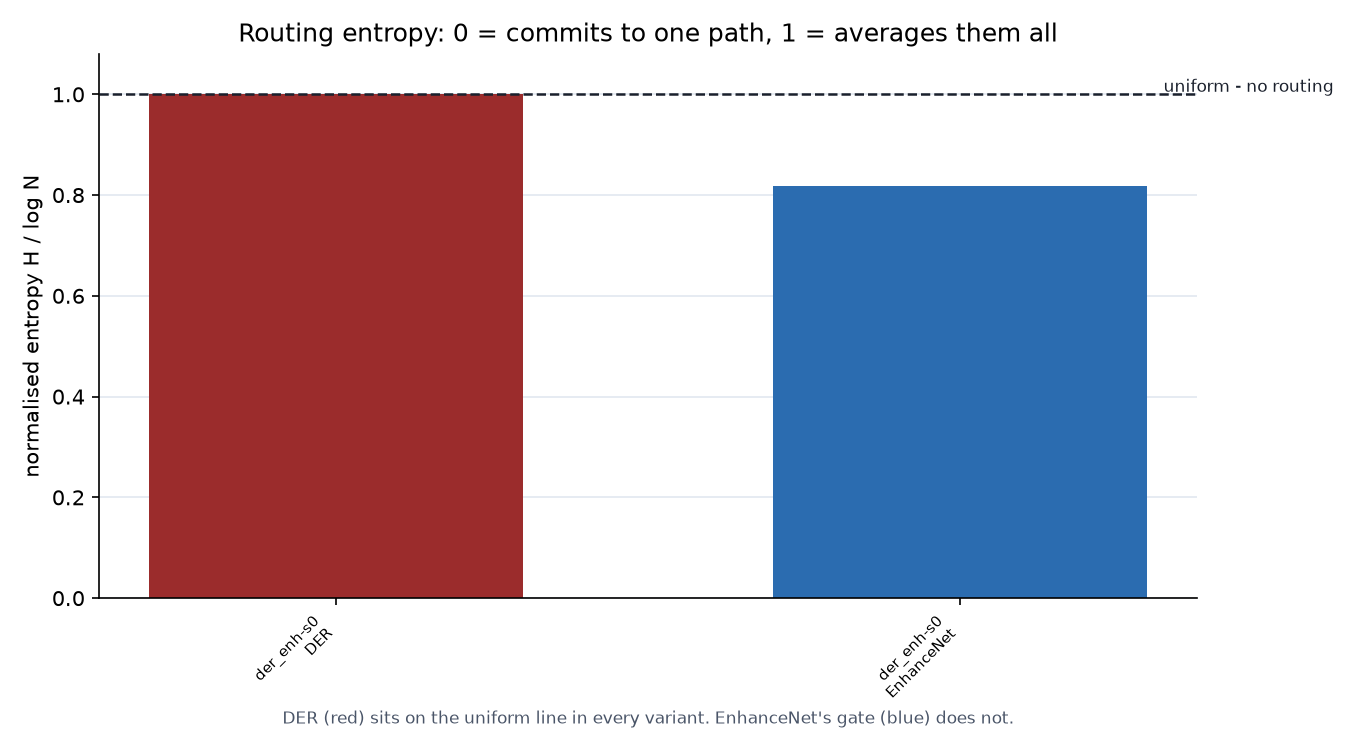
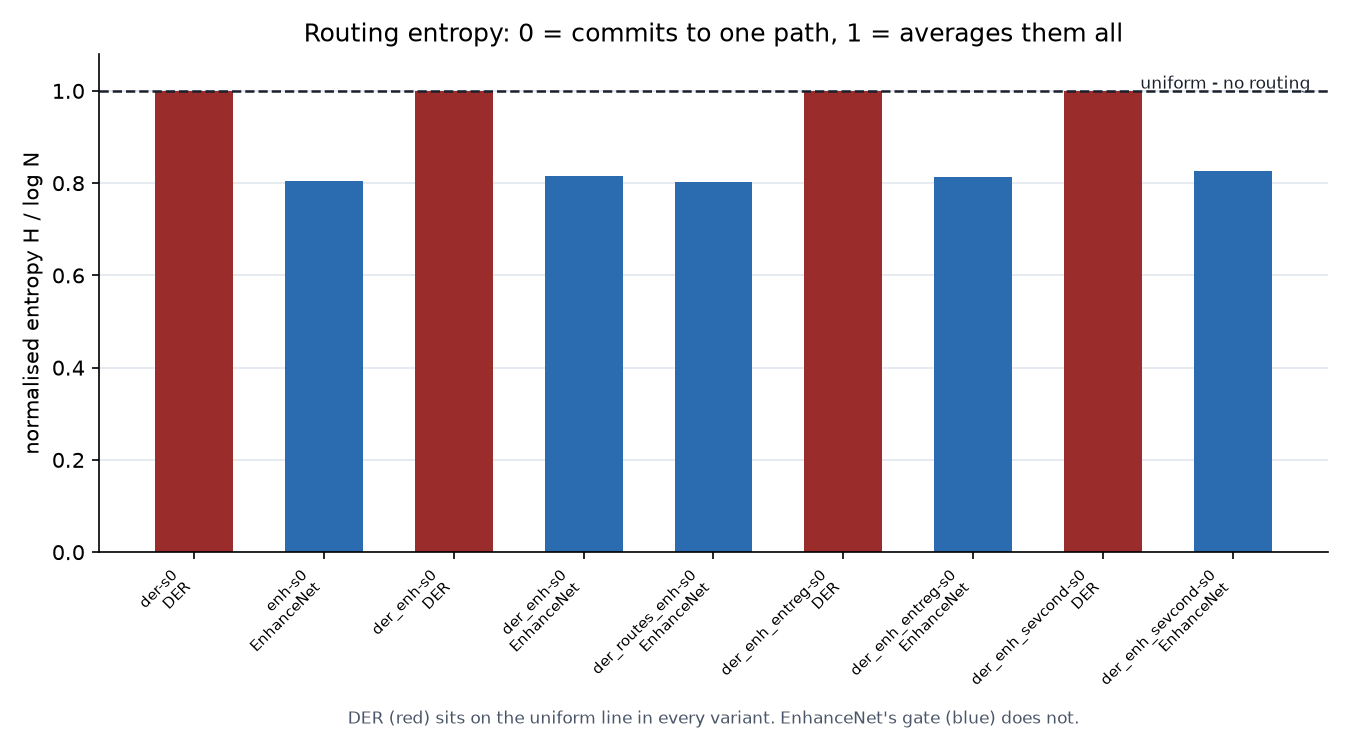
feat(experiments): entropy sweep configs, seeded batches, and a queue that outlives the session
Prepares tonight's spare GPU window. Nothing here has run yet -- the BDD batch
still owns the GPU until ~18:00 PKT -- but it is all committed so a flaky SSH
link cannot lose it.

**configs/der_enh_ent{01,10,50}.yaml** -- the E1 entropy sweep at 0.1, 1.0, 5.0.
This is the one genuinely untested question in the paper. `der_enh_entreg` ran at
0.01 and its loss term logged 0.01498, exactly 0.01 * mean(3*log 4, 3*log 5),
moving 0.00002 across 100 epochs: ~0.3% of a detection loss of order 2-6, so the
router was never actually pushed. "Entropy-aware" has therefore never been tested
by anyone, including the authors. entropy_reg and load_balance are raised
*together*, as losses.py designed them -- entropy pushes each image toward one
path, which alone would send every image down the same path, and load_balance
penalises precisely that collapse. Varying one would confound "sharper routing"
with "collapsed routing".

**infra/run_batch.sh** now accepts `variant:seed`, so a seed sweep is one batch
rather than seven invocations. Seeds are what turn a delta into a result here:
the entire spread across seven ExDark variants was 0.0056 mAP50, the same order
as the deltas being claimed, so single-seed numbers cannot settle anything.

**infra/run_queue.sh** (new) chains the whole night on the Droplet: wait for the
running batch, train the sweep and the seeds, evaluate every run on its own
dataset (BDD's 11 condition bins included), record entropy and gates for the new
[…]

diff --git a/docs/ENGINEERING_LOG.md b/docs/ENGINEERING_LOG.md
@@ -65,6 +65,33 @@ Two candidate explanations are ruled out:
   So enhancement gating discriminates and routing does not. That asymmetry is the
   interesting part: the same architecture pattern works in one module and not the other.
 
+### 2.1b Four implementations, four times the same answer
+
+The uniform-routing result is not one measurement. Every variant was instrumented
+separately, 48 images each:
+
+| run | DER routing H | EnhanceNet gate H | DER feature ΔH |
+|---|---|---|---|
+| der | 0.9997 | — | +0.0305 |
+| der_enh | 0.9999 | 0.8153 | +0.0370 |
+| der_enh_entreg | 0.9998 | 0.8136 | +0.0386 |
+| der_enh_sevcond | 0.9997 | 0.8254 | +0.0170 |
+| der_routes_enh | — | 0.8030 | — |
+| enh | — | 0.8053 | — |
+
+**Four independent DER routers, four times uniform. Four independent EnhanceNet gates,
+four times selective** (branch weights spanning roughly 0.06–0.49). `der_routes_enh` is
+the cleanest control of the set: there DER's router *is* EnhanceNet's branch gate, and the
+moment the same module is used as a gate rather than a router it discriminates at 0.8030.
+So the failure is not in the architecture pattern, the initialisation, or the training
+recipe — it is specific to routing.
+
+Feature entropy adds the nuance that keeps this honest: DER *does* change the features it
+touches (+0.017 to +0.039 normalised), so it is not inert. It applies the **same**
+transformation to every image. And in every variant the change is slightly larger on the
+brightest quartile than the darkest — the opposite of the paper's claim, though the
+per-bin sample is small enough that this is a hint, not a finding.
+
 ### 2.2 The entropy intervention never fired
 
 Extension E1 adds `entropy_reg` to push the router to commit. `train/ent_loss` logged
@@ -182,6 +209,12 @@ This happened **twice**, and the second time is the more instructive.
    "per-run cap 0.4 h" against a 52-minute run: **every run would have been killed around
    epoch 23.** Caught by reading the plan the script printed, 40 seconds after launch.
 
+A third instance followed the same shape: `env_flags` built its `-e` list with
+`printf '%s\n' "${out[@]}"`, and **`printf` with zero arguments still prints one empty
+line**, so with nothing to forward `mapfile` produced a one-element array holding `""` and
+`docker exec` died with "invalid container name or ID: value is empty". It only surfaced
+on a plain data-conversion command, which forwards nothing.
+
 - **Fix:** forward on `docker exec` as well as `docker run`, print what was forwarded, and
   add a test that *derives* the requirement instead of listing it — it scans the scripts
   for `${VAR:-default}` knobs and fails on any that is read inside the container but never
@@ -282,6 +315,40 @@ to be wrong as specified:
 - **Interview framing:** "The safeguard that failed wasn't the one that was hard to build.
   It was the one that depended on my own process staying alive. The training survived the
   session ending; the supervision didn't."
+
+### Lesson 7 — The tool decides where your results go, not your config
+
+Two bugs, found only because the owner asked "where are the runs stored and will they
+survive the Droplet?"
+
+- **The MLflow artifact store was outside every bundle.** `tracking.py` sets
+  `artifact_location` under `RUNS_DIR` when it *creates* an experiment — but MLflow keeps
+  an **existing** experiment's original location, and that default is `./mlruns`. So 118 MB
+  of plots, `results.csv` copies and MLflow-side weights sat in `/work/yolo-der/mlruns`
+  while every bundle archived `/work/runs`. All eight registered model versions pointed at
+  Droplet-absolute paths that would have dangled after teardown.
+- **A crashed run was recorded as a successful one.** Six AMP-crashed runs sat in the
+  database as `FINISHED` with zero metrics. The `teardown` callback meant to catch that
+  can never fire: Ultralytics calls `run_callbacks("teardown")` at `engine/trainer.py:527`,
+  on the happy path after `on_train_end` and **not** in a `finally`, so an exception skips
+  it and MLflow's `atexit` hook closes the dangling run as FINISHED. The registration was
+  right and the design was wrong.
+
+Fixes: `scripts/collect_results.py` *asks the database* where the artifacts are instead of
+assuming, and — the part that actually matters — **rewrites `artifact_uri`,
+`artifact_location` and `model_versions.source` to relative paths**, so the copy opens on
+any machine. Without that you get a UI full of runs with no artifacts and a registry of
+dead links. For the crash recording, `fail()` is reached two independent ways: an explicit
+`try/except` around `train()`, and an `atexit` handler registered *after* MLflow's own
+(atexit runs LIFO, so ours wins) to cover hard exits like the watchdog's SIGTERM.
+
+Measured afterwards: 3.7 MB database + 118 MB artifacts + 204 MB lean run dirs = **345 MB**
+worth keeping, against 8.2 GB if the per-epoch resume snapshots came along.
+
+- **Interview framing:** "My code asked for artifacts in one place; the library quietly
+  used another, because the experiment already existed. I'd been treating 'MLflow has it'
+  as a guarantee. Now the teardown script interrogates the store and rewrites the paths,
+  and it is verified by opening the copy with the source machine switched off."
 
 ### Smaller ones, kept because they cost real minutes
 
